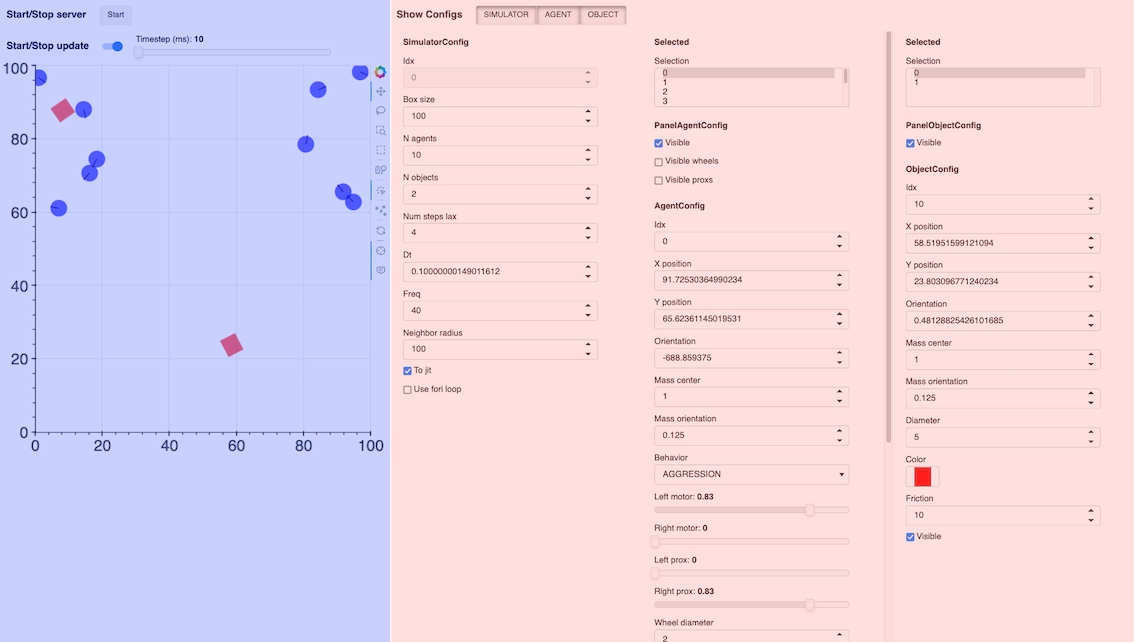
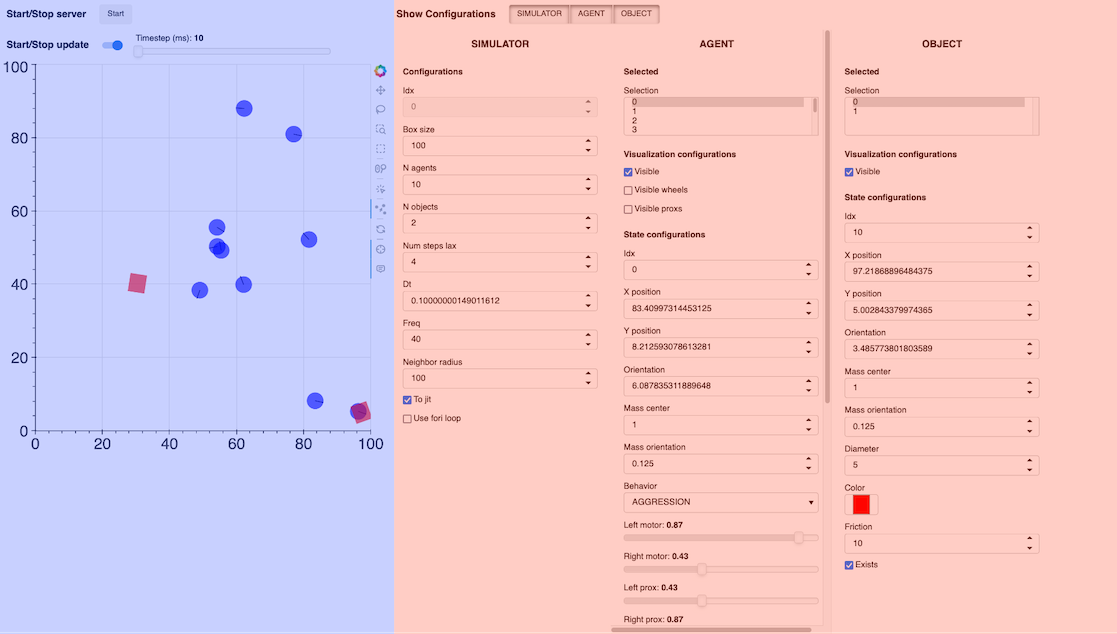
renamed tutorial.md, updated screenshot and updated README.md

diff --git a/vivarium/interface/panel_app.py b/vivarium/interface/panel_app.py
@@ -36,9 +36,9 @@ class EntityManager:
             pc.param.watch(self.update_cds_view, pc.param_names())
 
     def drag_cb(self, attr, old, new):
-        for i in self.selected.selection:
-            self.config[i].x_position = new['x'][i]
-            self.config[i].y_position = new['y'][i]
+        for i, c in enumerate(self.config):
+            c.x_position = new['x'][i]
+            c.y_position = new['y'][i]
 
     @contextmanager
     def no_drag_cb(self):
@@ -238,19 +238,8 @@ class WindowManager(Parameterized):
             self.pcb_plot.stop()
 
     def create_plot(self):
-        self.config_columns = pn.Row(*
-            [pn.Column(
-                self.controller.simulator_config, visible=False,
-                sizing_mode="scale_both",scroll=True, name="test")] +
-            [pn.Column(
-                self.controller.selected_entities[etype],
-                pn.panel(self.controller.selected_panel_configs[etype], name="Visualization configs"),
-                self.controller.selected_configs[etype],
-                visible=True, sizing_mode="stretch_width", scroll=True)
-            for etype in EntityType])
-
         p_tools = "crosshair,pan,wheel_zoom,box_zoom,reset,tap,box_select,lasso_select"
-        p = figure(tools=p_tools)
+        p = figure(tools=p_tools, active_drag="box_select")
         p.axis.major_label_text_font_size = "24px"
         hover = HoverTool(tooltips=None)
         p.add_tools(hover)
@@ -262,12 +251,25 @@ class WindowManager(Parameterized):
         return p
 
     def create_app(self):
+        self.config_columns = pn.Row(*
+            [pn.Column(
+                pn.pane.Markdown("### SIMULATOR", align="center"),
+                pn.panel(self.controller.simulator_config, name="Configurations"),
+                visible=False, sizing_mode="scale_height", scroll=True)] +
+            [pn.Column(
+                pn.pane.Markdown(f"### {etype.name}", align="center"),
+                self.controller.selected_entities[etype],
+                pn.panel(self.controller.selected_panel_configs[etype], name="Visualization configurations"),
+                pn.panel(self.controller.selected_configs[etype], name="State configurations"),
+                visible=True, sizing_mode="scale_height", scroll=True)
+            for etype in EntityType])
+
         app = pn.Row(pn.Column(pn.Row(pn.pane.Markdown("### Start/Stop server", align="center"),
                                       self.start_toggle),
                                pn.Row(pn.pane.Markdown("### Start/Stop update", align="center"),
                                       self.update_switch, self.update_timestep),
                                pn.panel(self.plot)),
-                     pn.Column(pn.Row("### Show Configs", self.entity_toggle),
+                     pn.Column(pn.Row("### Show Configurations", self.entity_toggle),
                                pn.Row(*self.config_columns)))
         return app
 

diff --git a/notebooks/web_interface_tutorial.md b/notebooks/web_interface_tutorial.md
@@ -1,0 +1,57 @@
+# Introduction to the web interface
+
+The web interface has two main components:
+- The simulator plot on the left (in blue)
+- The configurations on the right (in red)
+
+![web_interface](img/web_interface.png "Interface")
+
+## Simulator plot
+
+The plot displays the current state of the simulator, including its agents and objects.
+
+From top to bottom can be found:
+
+- **The start/stop button for the server**, to start or stop the simulation on server side. Currently, it is recommended to stop the simulation when modifying parameters on the interface (how to modify them is explained below).
+- **The start/stop button for the plot update**, which sets if the plot should periodically refresh or not; the time step for the refresh can be set with the slider next to it.
+- **The simulator plot**, with the agents (circles) and objects (squares); on the right are some tools that can be used to select these entities (see the [Bokeh documentation](https://docs.bokeh.org/en/latest/docs/user_guide/interaction/tools.html#pan-drag-tools) for more information). The most useful tools are:
+    - The `Lasso/Box select`, to easily select multiple entities at once;
+    - The `Point Draw Tool`, that can be used to move the entities by dragging them around the plot (the server and plot update must be stopped beforehand);
+    - The `Reset` tool sets back the plot to its original position if it has been moved around too much.
+
+## Configurations
+
+<!-- TODO: add a tutorial on what each attribute does -->
+The configurations can be used to modify the agents, objects, or simulator attributes.
+To show one configuration tab, click on the appropriate **Show Configurations** toggle.
+
+### Simulator configurations
+This configuration tab shows the simulator attributes. Please refer to the documentation for further details on what each configuration does.
+
+### Entity configurations
+An *entity* refers to a physical entity in the simulator. 
+From top to bottom can be found:
+- **The selected list**, which indicates which entities are currently selected, either by selecting them on the plot or directly in this list.
+
+    <u>The selected entities are the ones that will be affected by the next points.</u>\
+When an entity is selected, its attributes will be shown in the `configurations` below. However, if multiple entities are selected at the same time (with the shift key for example), only the first selected entity will have its attributes shown below, but the modifications made on those attributes will apply for *all of the selected entities*.
+
+- **The visualization configurations**, which are used to select what is visible on the plot; checking or unchecking these boxes will make the appropriate element appear / disappear from the plot
+- **The state configurations**, which manages all the attributes of the agents / objects; for more details on what each configuration does, please refer to the documentation
+
+## Example case
+
+Now to try and use the interface, we can start with a simple scenario with predators and preys. We will have big hunters and small fast preys.
+
+### Setup
+
+Before modifying the attributes, stop the server with the **Start/Stop server** button.
+
+1. First, select a few agents either with the **Selected** list or by selecting them on the plot.
+2. Now search for `Behavior` attribute in the **AgentConfig** part, click on the dropdown menu and select `FEAR`.
+3. Find the `Diameter` attribute and reduce it, to 3 for example.
+4. Set the `Speed mul` value to 2. 
+5. Go down to find the `Color` attribute and set a color that you think fits the `FEAR` behavior, such as blue or green.
+6. Repeat steps 1-5 with the other agents, give them the `AGGRESSION` behavior, increase their size, make them slower than the preys and a different color.
+
+If you stopped the server, you can start it again, and you should see the predators following the preys, while the preys avoid the other agents!

diff --git a/README.md b/README.md
@@ -66,3 +66,7 @@ pytest
 ```
 
 You can add your own tests in the tests/ subdirector. Make sure that the name or your files and test functions start with "test".
+
+## Tutorials
+
+Several notebooks tutorials can be found in the [notebooks folder](https://github.com/clement-moulin-frier/vivarium/tree/main/notebooks), along with a tutorial for the web interface.
